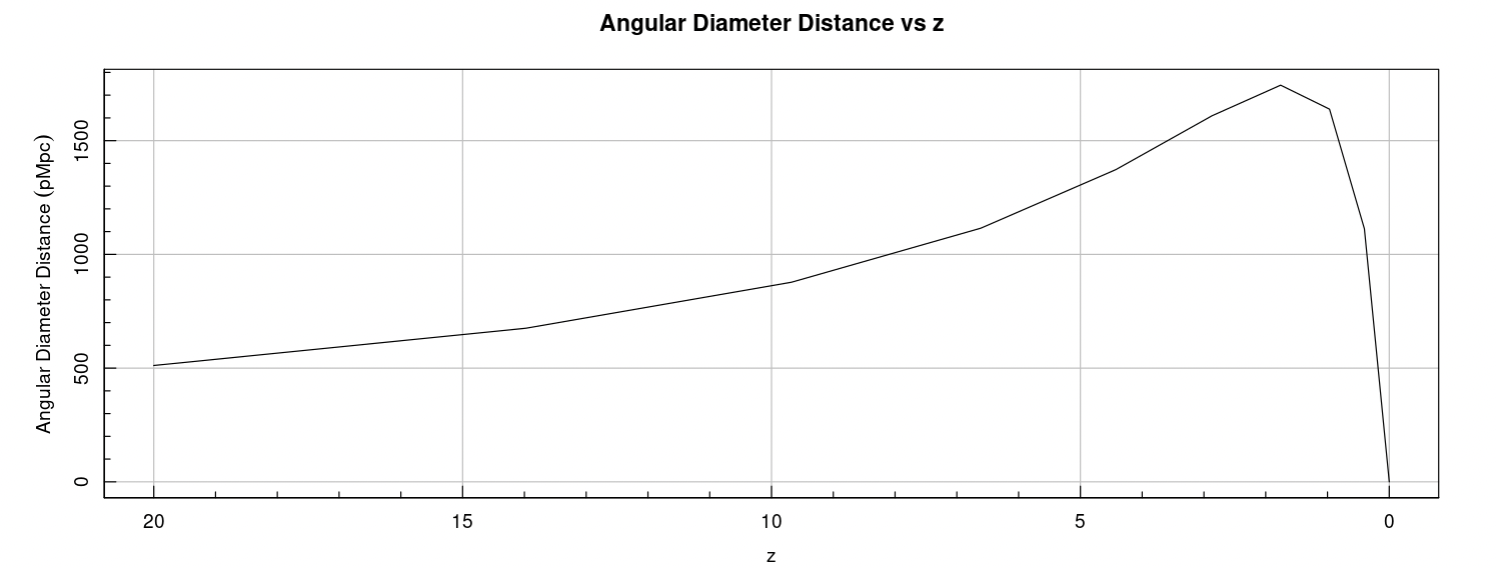
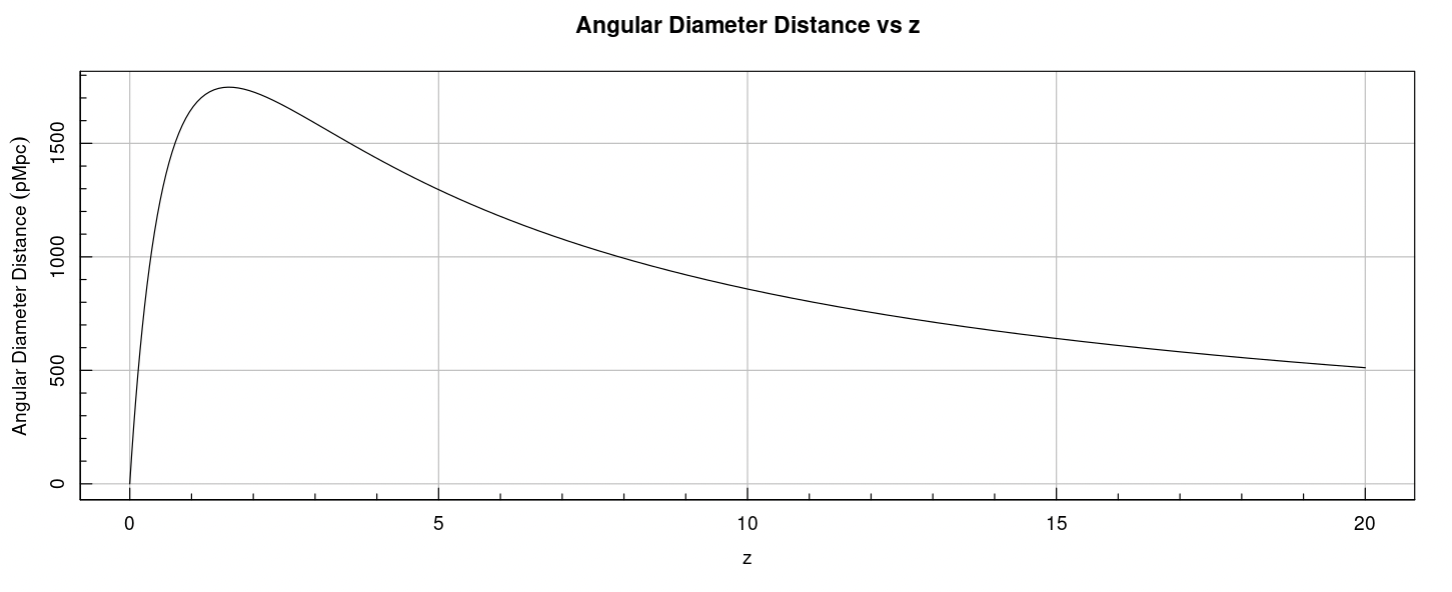
fix fig

diff --git a/cos-w5.tex b/cos-w5.tex
@@ -101,8 +101,7 @@
       value of approximately \(z = 1.5\).
       \begin{figure}[H]
         \includegraphics[width=\linewidth]{angular-diameter-distance.png}
-        \caption{Calculated angular diameter distance by redshift, shown
-        in decreasing horizontal axis}
+        \caption{Calculated angular diameter distance by redshift}
         \label{fig:angular-diameter-distance}
       \end{figure}
 
